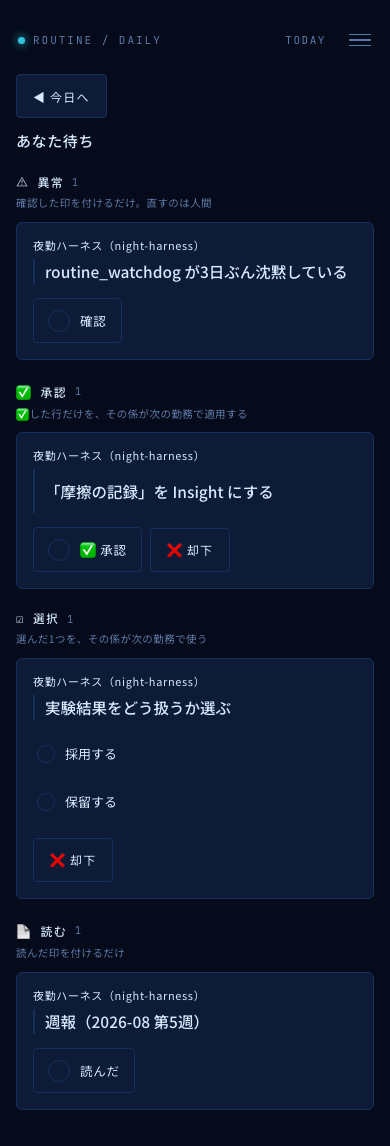
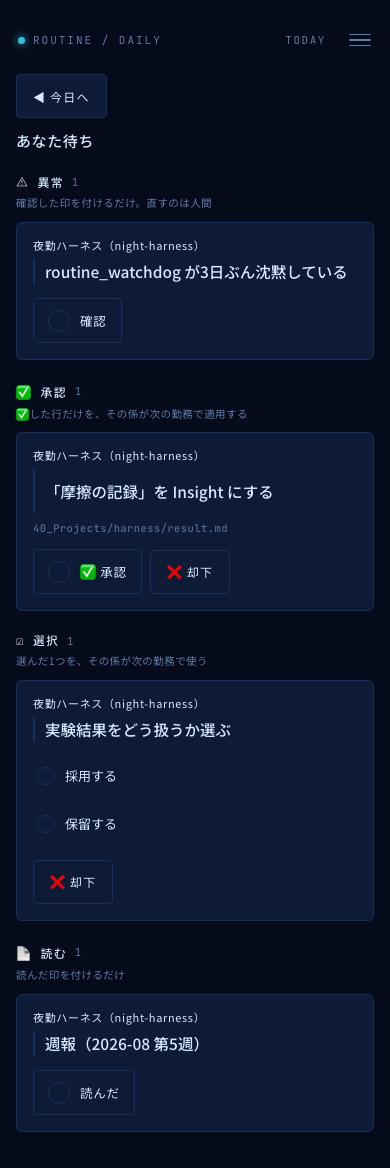
fix(web): refPath を bodyMd と独立に表示（仕様25 §3.2 の該当記述もセットで修正）
fresh-context 評価者の指摘: `refPath` を `bodyMd` 展開ブロックの中でしか描いておらず、
`bodyMd` 無し・`refPath` あり（03-api.md §3 では独立した任意フィールド）の行で
在処が画面から完全に消えていた。本文が無い行こそ原文へ辿る手がかりが要る。

- InboxItemRow: `refPath` を `bodyMd` の有無・開閉に関係なく、あれば常に等幅で表示のみ
- e2e: 「bodyMd 無し・refPath あり」の行を追加し、タップ無しで等幅表示されること・
  link ロールが0件であること・refPath が無い行に空枠を出さないことを検証。
  既存テストにも「閉じている段でも refPath が見えている」を追加

AGENTS.md ルール9（実装と仕様の食い違いは仕様更新とセット）の履行として
docs/specs/25-web-inbox.md §3.2 を3点修正:
- `refPath` を `bodyMd` 展開の括弧内から出し、独立した任意フィールドとして明記
- 取り消しの凍結条件を `apply_state ≠ pending` → `applied` / `failed` に修正
  （read / alert は `none` のまま決定・取り消し可能。24 §3.3-2）
- 空表示の確定文言 `確認待ちはありません。` を追記

make verify PASS（E2E 98件）。

Changed region(s): [[0.0308, 0.0611, 0.9538, 0.9773], [0.8923, 0.0305, 0.9538, 0.0611]]

diff --git a/web/src/features/inbox/components/InboxItemRow.tsx b/web/src/features/inbox/components/InboxItemRow.tsx
@@ -168,10 +168,13 @@ export function InboxItemRow({
       {open && item.bodyMd && (
         <div className="wt__body">
           <Markdown md={item.bodyMd} />
-          {/* `refPath` は等幅で表示のみ・リンクにしない（§3.2）。cerebellum は Vault を参照しない */}
-          {item.refPath && <p className="mono wt__ref">{item.refPath}</p>}
         </div>
       )}
+
+      {/* `refPath` は等幅で表示のみ・リンクにしない（§3.2）。cerebellum は Vault を参照しないので
+          開くのはターミナル／Obsidian の仕事。**`bodyMd` とは独立した任意フィールド**
+          （docs/specs/03-api.md §3）なので、本文が無い行でも在処は消さずに出す */}
+      {item.refPath && <p className="mono wt__ref">{item.refPath}</p>}
 
       {decided ? (
         <div className="wt__acts">
